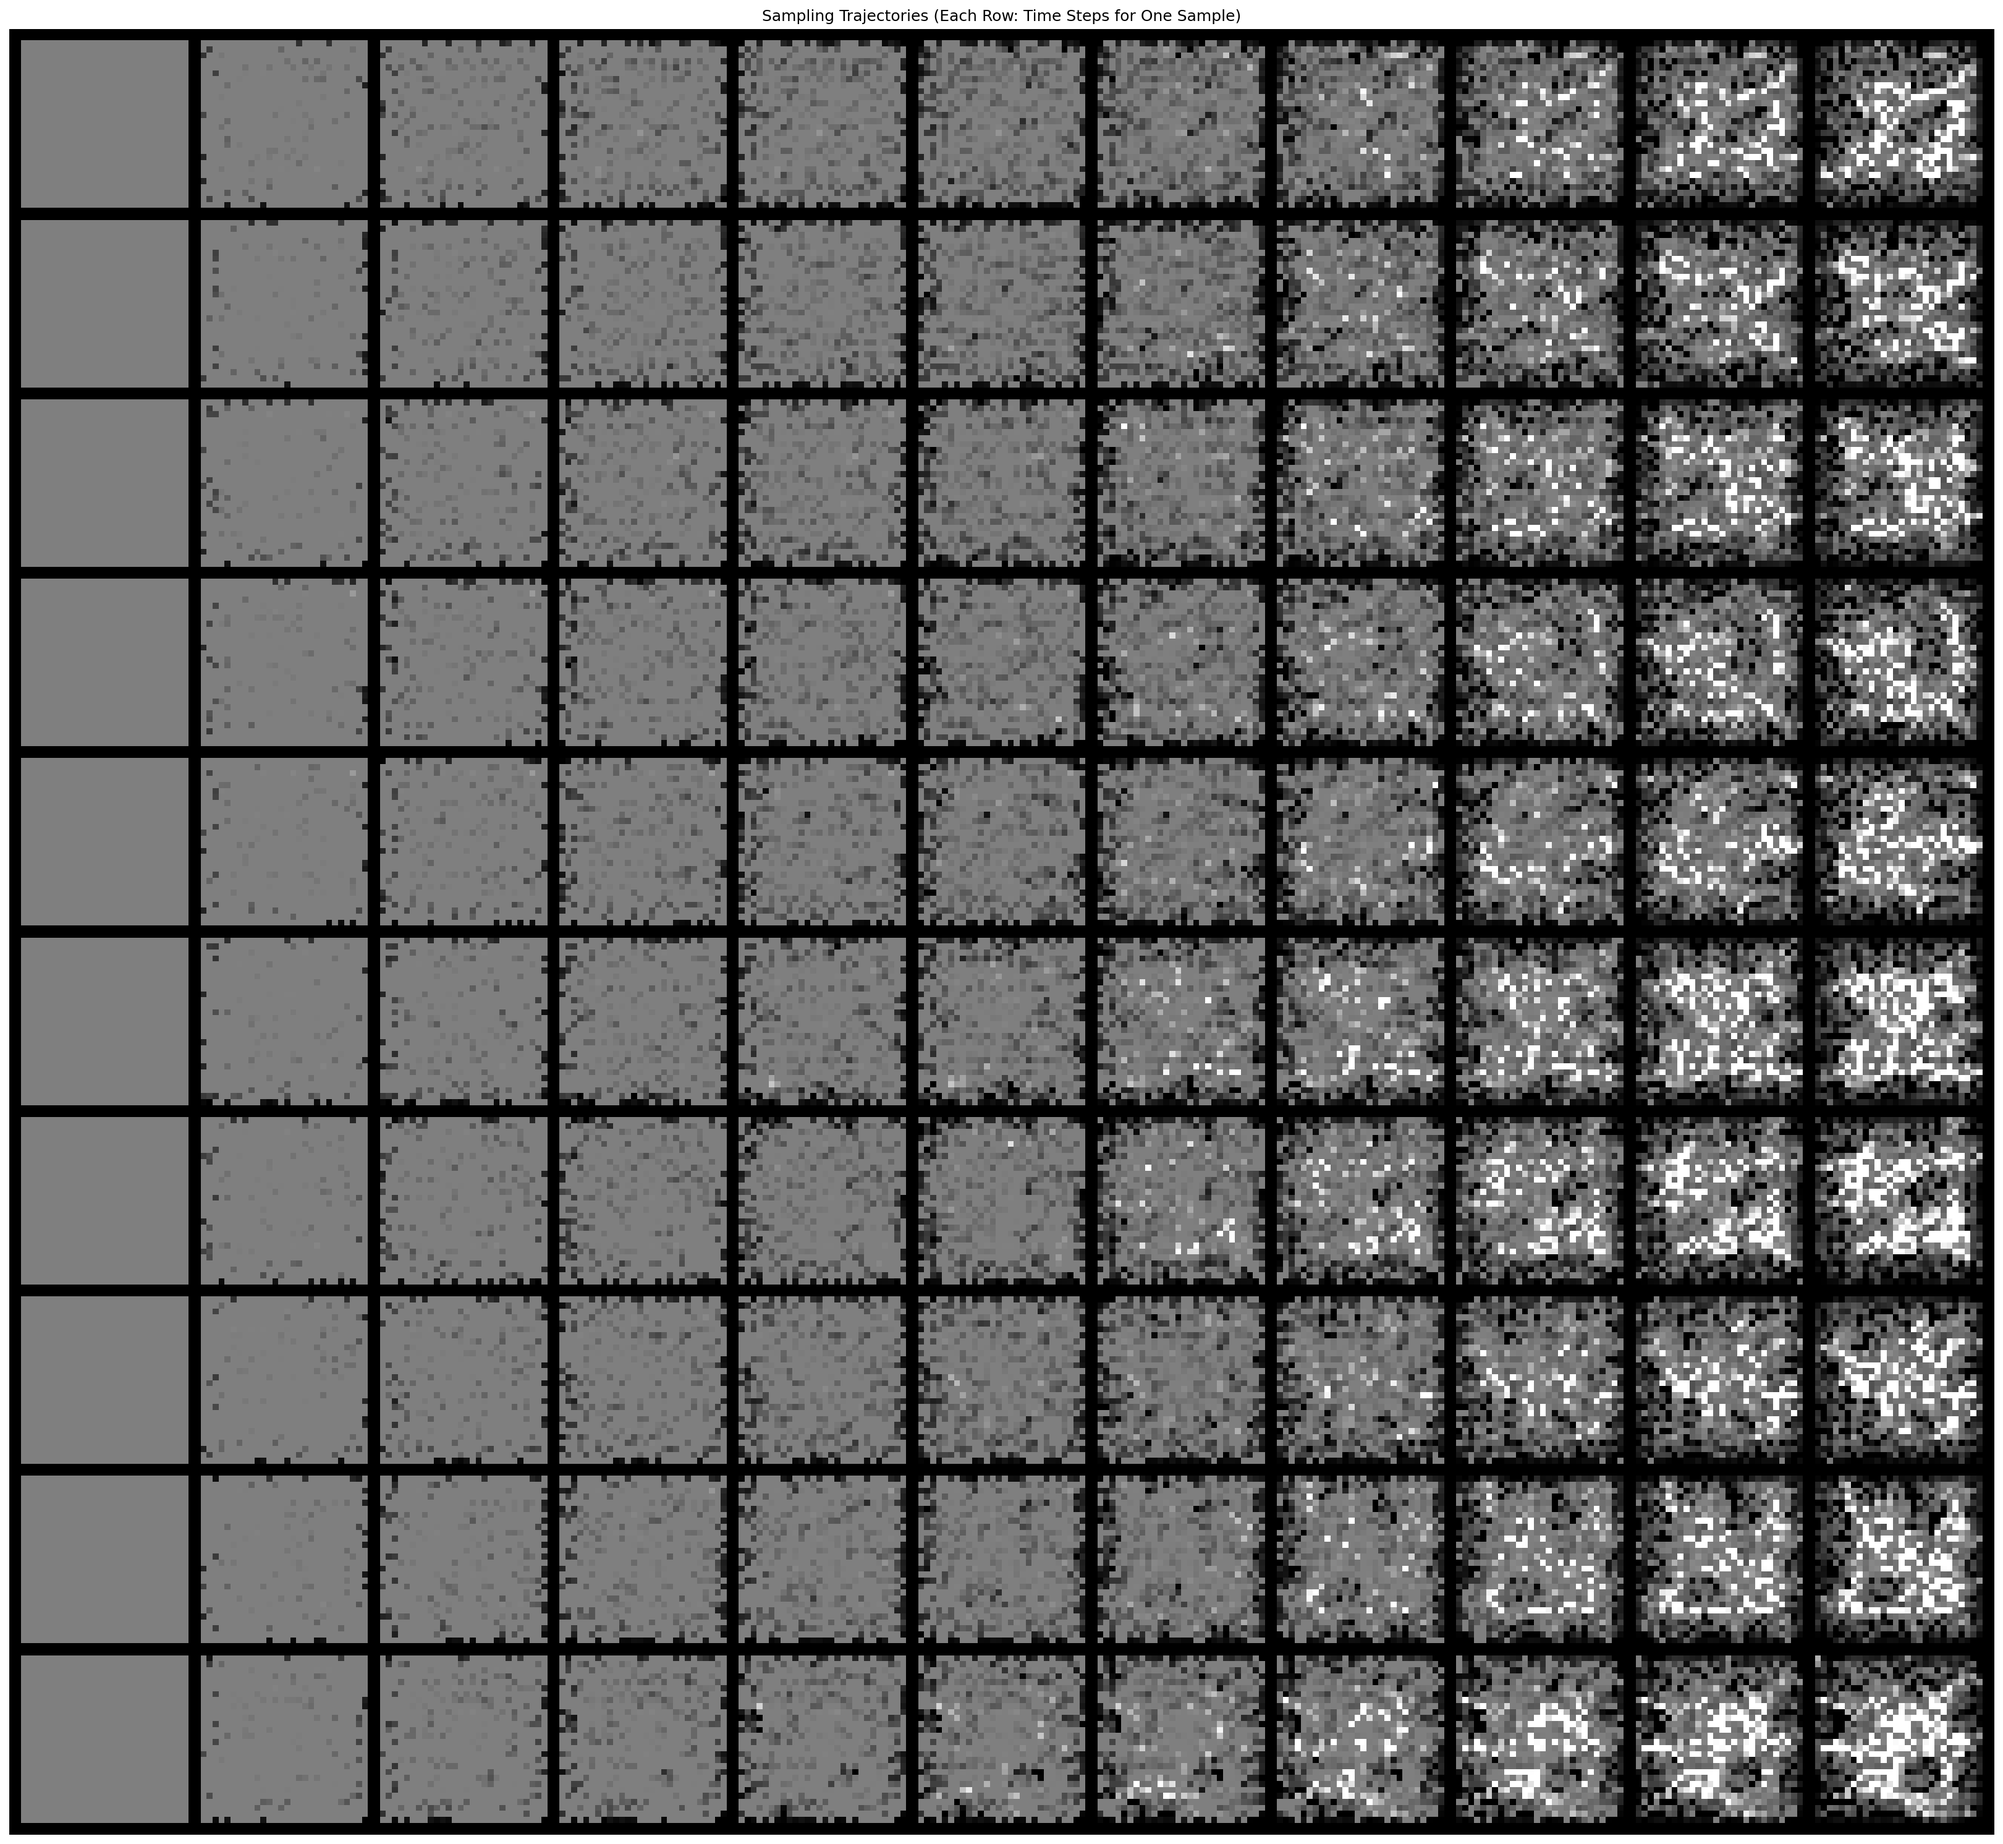
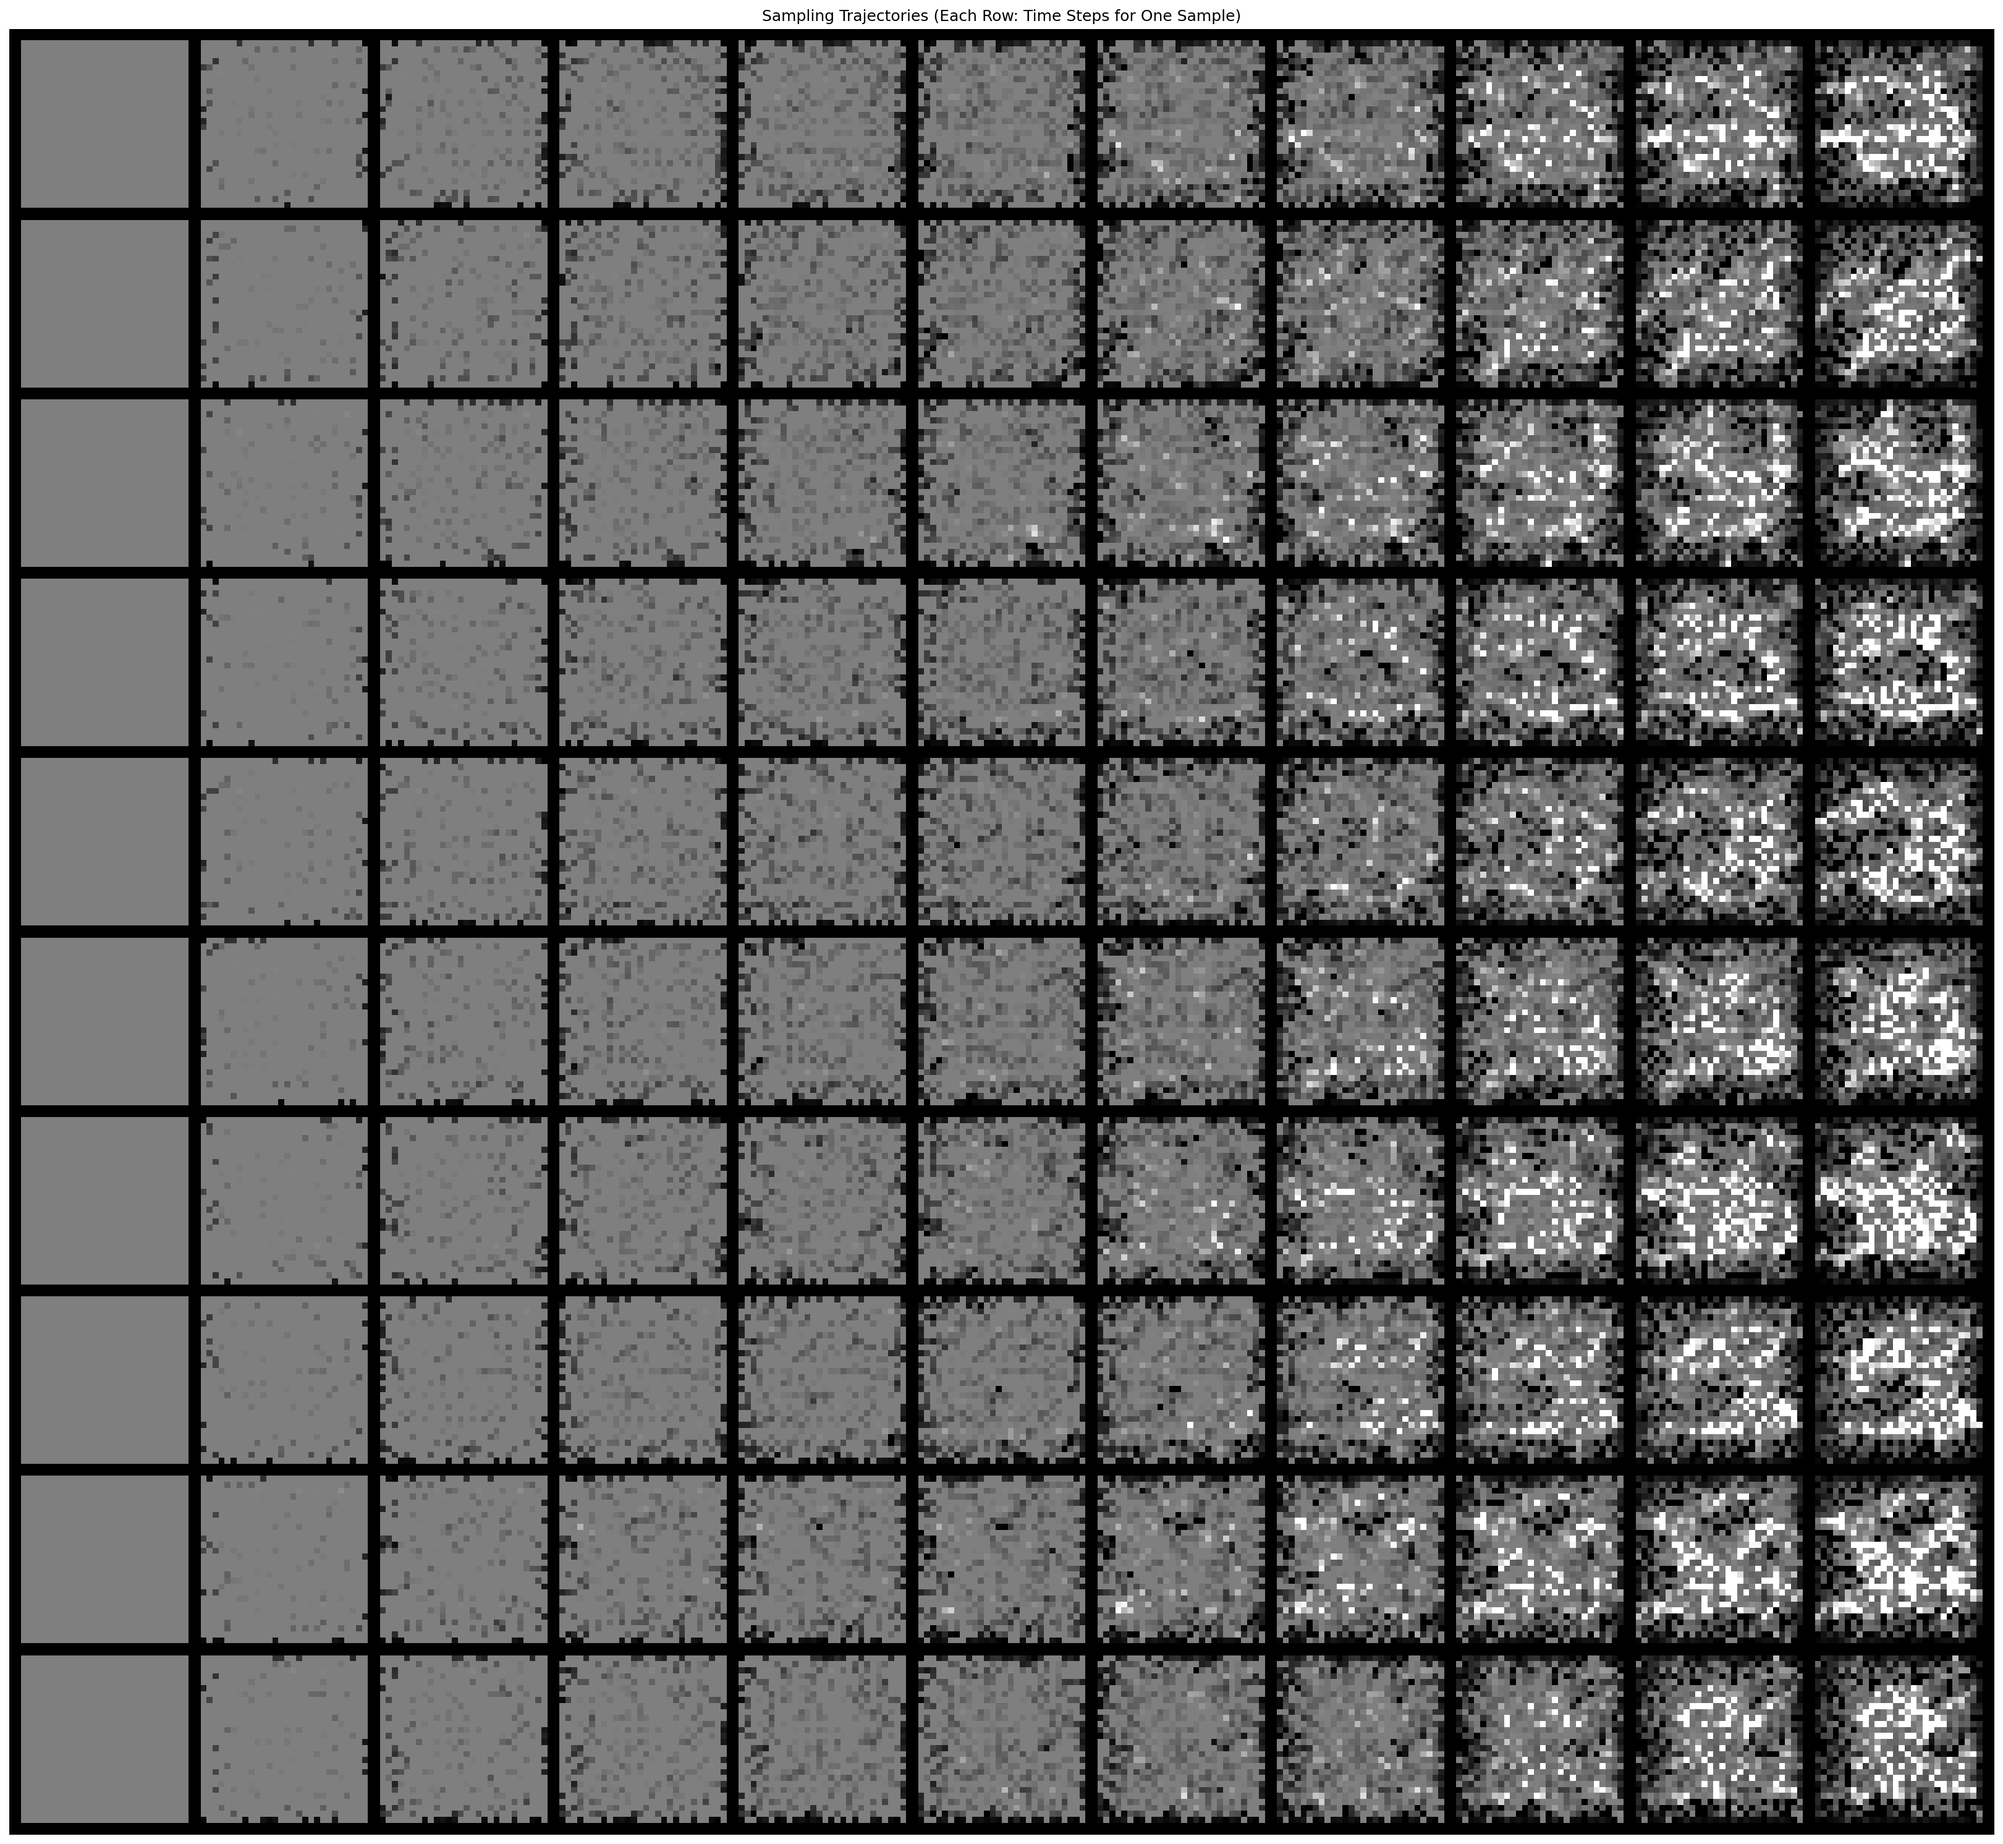
some results in sanity_check

diff --git a/training_sanity_check.py b/training_sanity_check.py
@@ -24,7 +24,50 @@ def denoise(model, x_t, t, mask, device):
         pred_x_0 = model(x_t, t, mask)
     return pred_x_0
 
-def sanity_check_denosing(num_samples=16):
+def denoise_one_step_based_on_mask(model, before, mask, t, num_to_unmask=None):
+    assert before.shape == (1, 28, 28), f"Before shape: {before.shape}"
+    assert mask.shape == (1, 28, 28), f"Mask shape: {mask.shape}"
+    
+    pred = denoise(model, before.unsqueeze(0), t.unsqueeze(0), mask.unsqueeze(0), device)[0]
+
+    new_pred = pred[mask == 1]
+    print(f"Pred stats: {new_pred.min()=} {new_pred.max()=} {new_pred.mean()=} {new_pred.std()=}")
+    after = before.clone()
+    
+    if num_to_unmask is not None:
+        masked_candidates = (1-mask).nonzero(as_tuple=False)
+        print(f"Unmask {num_to_unmask} pixels out of {len(masked_candidates)}")
+        unmask_indices = masked_candidates[torch.randperm(len(masked_candidates))[:num_to_unmask]]
+
+        x = unmask_indices[:, 0]
+        y = unmask_indices[:, 1]
+        z = unmask_indices[:, 2]
+
+        after[x, y, z] = pred[x, y, z].clamp(-1, 1)
+        mask[x, y, z] = 1
+    else:
+        print(f"{(mask > 0).sum()=}")
+        after[mask == 1] = pred[mask == 1].clamp(-1, 1)
+        mask[mask == 1] = 1
+
+        # return pred * mask + before * (1 - mask), mask
+
+    return after, mask
+
+def denoise_full_trajectory_based_on_mask(model, before, mask, t, num_steps):
+    # return denoise_one_step_based_on_mask(model, before, mask, t, num_to_unmask=int((1-mask).sum().item()))[0].unsqueeze(0)
+    trajectory = []
+    print("New trajectory")
+    for i in range(num_steps-1, -1, -1):
+        num_to_unmask = int((1-mask).sum().item() // (i + 1))
+        print(f"{num_to_unmask=}")
+        before, mask = denoise_one_step_based_on_mask(
+            model, before, mask,
+            t * (i + 1) / num_steps, num_to_unmask=num_to_unmask)
+        trajectory.append(before.clone())
+    return torch.stack(trajectory, dim=0)
+
+def sanity_check_denosing(num_samples=1):
     # Load model
     model = UNet.load_checkpoint(MODEL_PATH).to(device)
     # Load dataset
@@ -46,7 +89,7 @@ def sanity_check_denosing(num_samples=16):
     print("Stats for images: ", images.min(), images.max(), images.mean(), images.std())
     
     # Apply masking (like in training)
-    t = torch.randint(900, 1000, (num_samples,), device=device)  # Random timestep for each sample
+    t = torch.randint(1, 1000, (num_samples,), device=device)  # Random timestep for each sample
     prob_zero = t.float().view(-1, 1, 1, 1) / 1000.0
     random_tensor = torch.rand(num_samples, 1, 28, 28, device=device)
     mask = (random_tensor > prob_zero).float()
@@ -56,7 +99,27 @@ def sanity_check_denosing(num_samples=16):
     # Forward process: create masked images
     masked = forward_process(images, t, mask)
     # Denoise
-    denoised = denoise(model, masked, t, mask, device)
+    use_denoise_full_trajectory = True
+    interface_check = True
+    if use_denoise_full_trajectory:
+        print(mask[0].shape)
+        denoised = [
+            denoise_full_trajectory_based_on_mask(model, masked[i], mask[i], t[i], num_steps=1)
+                for i in range(num_samples)]
+        print(type(denoised))
+        print([type(i) for i in denoised])
+        denoised = torch.stack(denoised, dim=0)[:, 0, :, :, :]
+    elif interface_check:
+        print(mask[0].shape)
+        denoised = [
+            denoise_one_step_based_on_mask(model, masked[i], mask[i], t[i], num_to_unmask=int((1-mask[i]).sum().item()))[0]
+                for i in range(num_samples)]
+        print(type(denoised))
+        print([type(i) for i in denoised])
+        denoised = torch.stack(denoised, dim=0)
+
+    else:
+        denoised = denoise(model, masked, t, mask, device)
     
     # Prepare for visualization (denormalize to [0, 1])
     images_viz = (images + 1) / 2.0
@@ -81,27 +144,6 @@ def sanity_check_denosing(num_samples=16):
     plt.savefig('sanity_check_denosing.png', dpi=150, bbox_inches='tight')
     print(f"Saved sanity check to sanity_check_denosing.png")
 
-def sample_one_step_based_on_mask(model, before, mask, t, cur=1):
-    assert before.shape == (1, 28, 28), f"Before shape: {before.shape}"
-    assert mask.shape == (1, 28, 28), f"Mask shape: {mask.shape}"
-    
-    
-    pred = denoise(model, before.unsqueeze(0), t, mask.unsqueeze(0), device)[0]
-
-    after = before.clone()
-    masked_candidates = mask.nonzero(as_tuple=False)
-    if masked_candidates.numel() > 0:
-        num_to_unmask = int((mask.sum() // (cur + 1)).item())
-        unmask_indices = masked_candidates[torch.randperm(len(masked_candidates))[:num_to_unmask]]
-
-        x = unmask_indices[:, 0]
-        y = unmask_indices[:, 1]
-        z = unmask_indices[:, 2]
-
-        after[x, y, z] = pred[x, y, z].clamp(-1, 1)
-        mask[x, y, z] = 0
-    return after, mask
-
 def sample_images(model, num_samples=1, num_steps=10):
     # Instead of just returning the final sample, collect the images at each step and return all of them as a tensor of shape [num_steps+1, num_samples, 1, 28, 28]
     trajectory = []
@@ -110,18 +152,8 @@ def sample_images(model, num_samples=1, num_steps=10):
         before = torch.zeros(1, 28, 28, device=device)
         mask = torch.ones(1, 28, 28, device=device)
 
-        cur_trajectory = []
-        cur_trajectory.append(before.clone())
-        for i in range(num_steps-1, -1, -1):
-            t = torch.full((1,), i * 1000 / num_steps, device=device, dtype=torch.long)
-            before, mask = sample_one_step_based_on_mask(model, before, mask, t, cur=i)
-            
-            cur_trajectory.append(before.clone())
-        trajectory.append(torch.stack(cur_trajectory, dim=0))
-    
-    # Merge all trajectories into a single tensor
-    print(type(trajectory))
-    print([type(i) for i in trajectory])
+        trajectory.append(denoise_full_trajectory_based_on_mask(
+            model, before, mask, t, num_steps))
     trajectory = torch.stack(trajectory, dim=0)
     return trajectory.permute(1, 0, 2, 3, 4)
 
@@ -151,4 +183,4 @@ def sanity_check_sampling(num_samples=10, num_steps=10):
 
 if __name__ == '__main__':
     sanity_check_denosing()
-    sanity_check_sampling()
+    # sanity_check_sampling()
